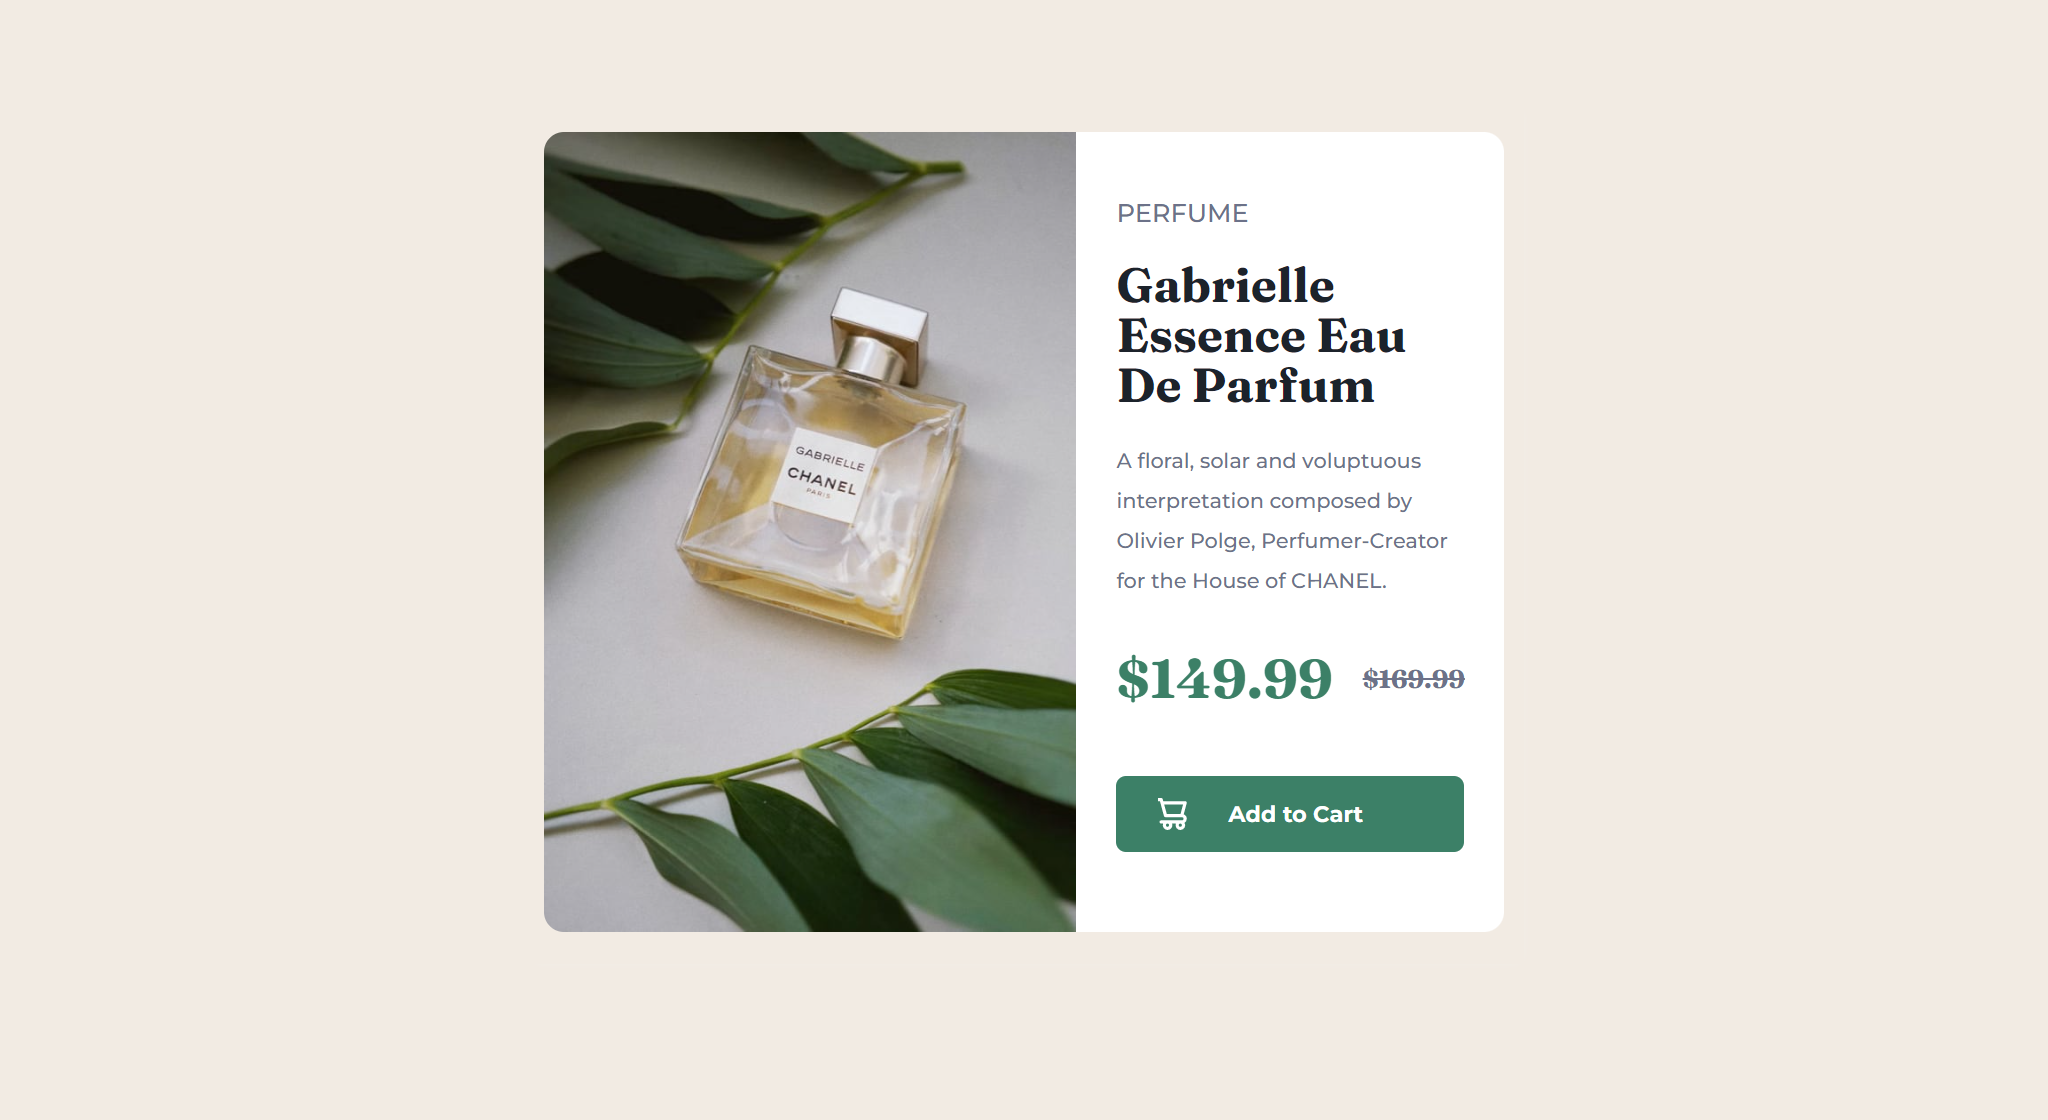
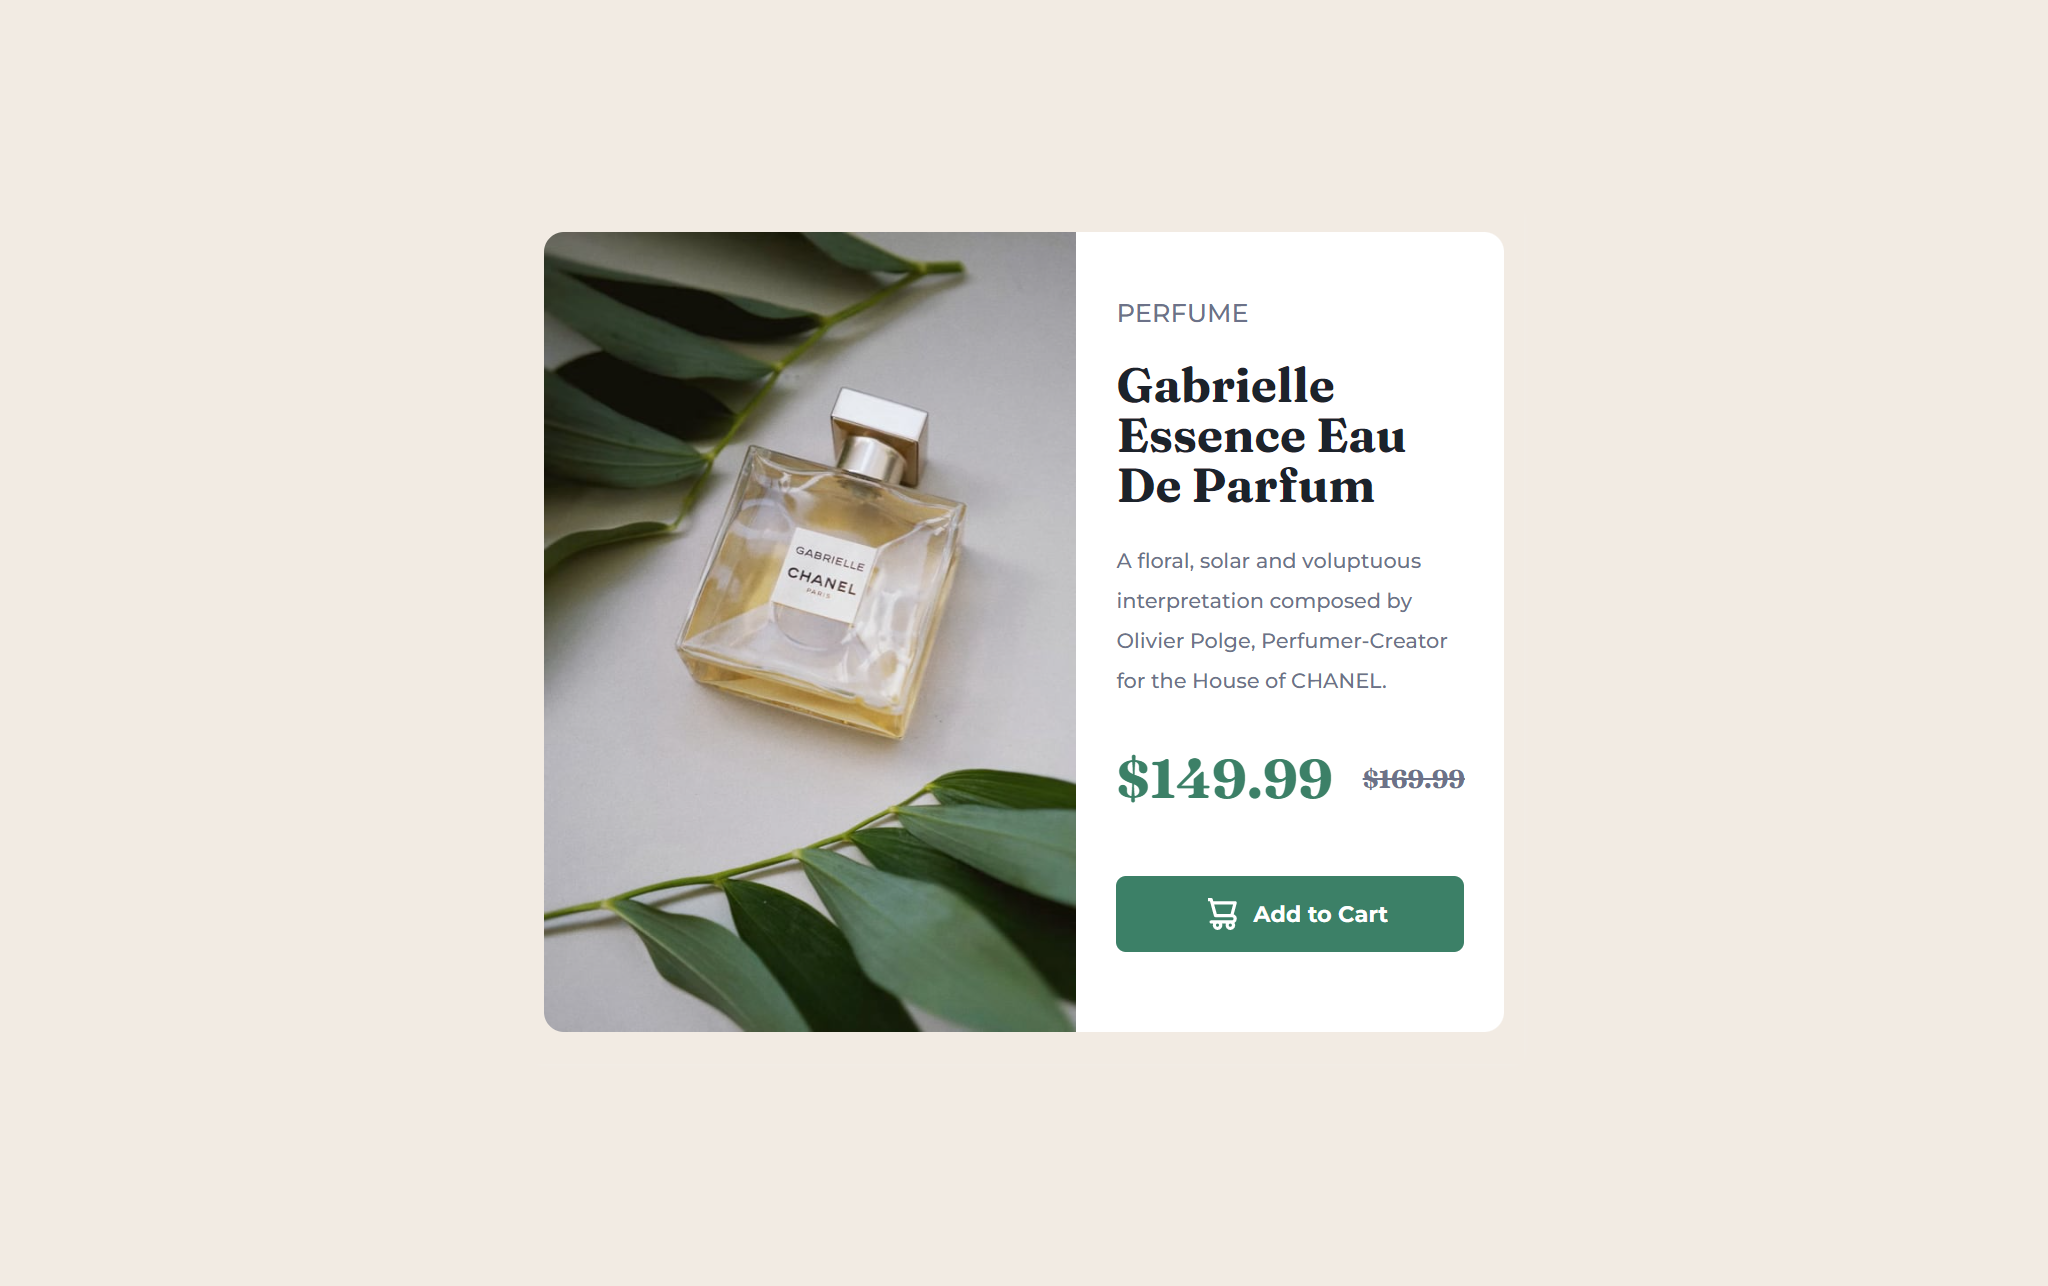
Added new solution, live site URL and made the project responsive

Changed region(s): [[0.25, 0.0938, 0.75, 0.5938], [0.25, 0.5938, 0.75, 0.8438], [0.5312, 0.5938, 0.7188, 0.625]]

diff --git a/index.html b/index.html
@@ -14,11 +14,9 @@
 
 <body>
     <picture>
-        <source media="(min-width:576px)" srcset="images/image-product-desktop.jpg" class="header__img">
-        <img src="/images/image-product-mobile.jpg" alt="Flowers" width="686" height="480" style="width:auto;" class="header__img">
+        <source media="(min-width:576px)" srcset="images/image-product-desktop.jpg" alt="Product " class="header__img">
+        <img src="/images/image-product-mobile.jpg" alt="Product mobile" width="686" height="480" class="header__img">
     </picture>
-
-    <!-- <img src="images/image-product-desktop.jpg" alt="Product Mobile" title="Fragrance" class="header__img"> -->
 
     <main class="main">
         <section class="header">

diff --git a/css/style.css b/css/style.css
@@ -161,6 +161,10 @@ button {
         align-items: center;
     }
 
+    picture img {
+        width: fit-content;
+    }
+
     .main {
         background-color: var(--MAIN-BGCOLOR);
         padding: 20px;

diff --git a/README.md b/README.md
@@ -3,11 +3,12 @@
 
 ![](/sample%20images/desktop%20view.png)
 ![](/sample%20images/mobile%20view.png)
+![](/sample%20images/active%20state.png)
 
 ### Links
 
-- Solution URL: [Solution URL]()
-- Live Site URL: [live Site URL](https://order-summary-component-pl5j2x3lq-savvykhai.vercel.app)
+- Solution URL: [Solution URL](https://github.com/savvykhai/product-preview-card-component.git)
+- Live Site URL: [live Site URL](https://product-preview-card-component-gxhntauy8-savvykhai.vercel.app)
 
 ### Built with
 
